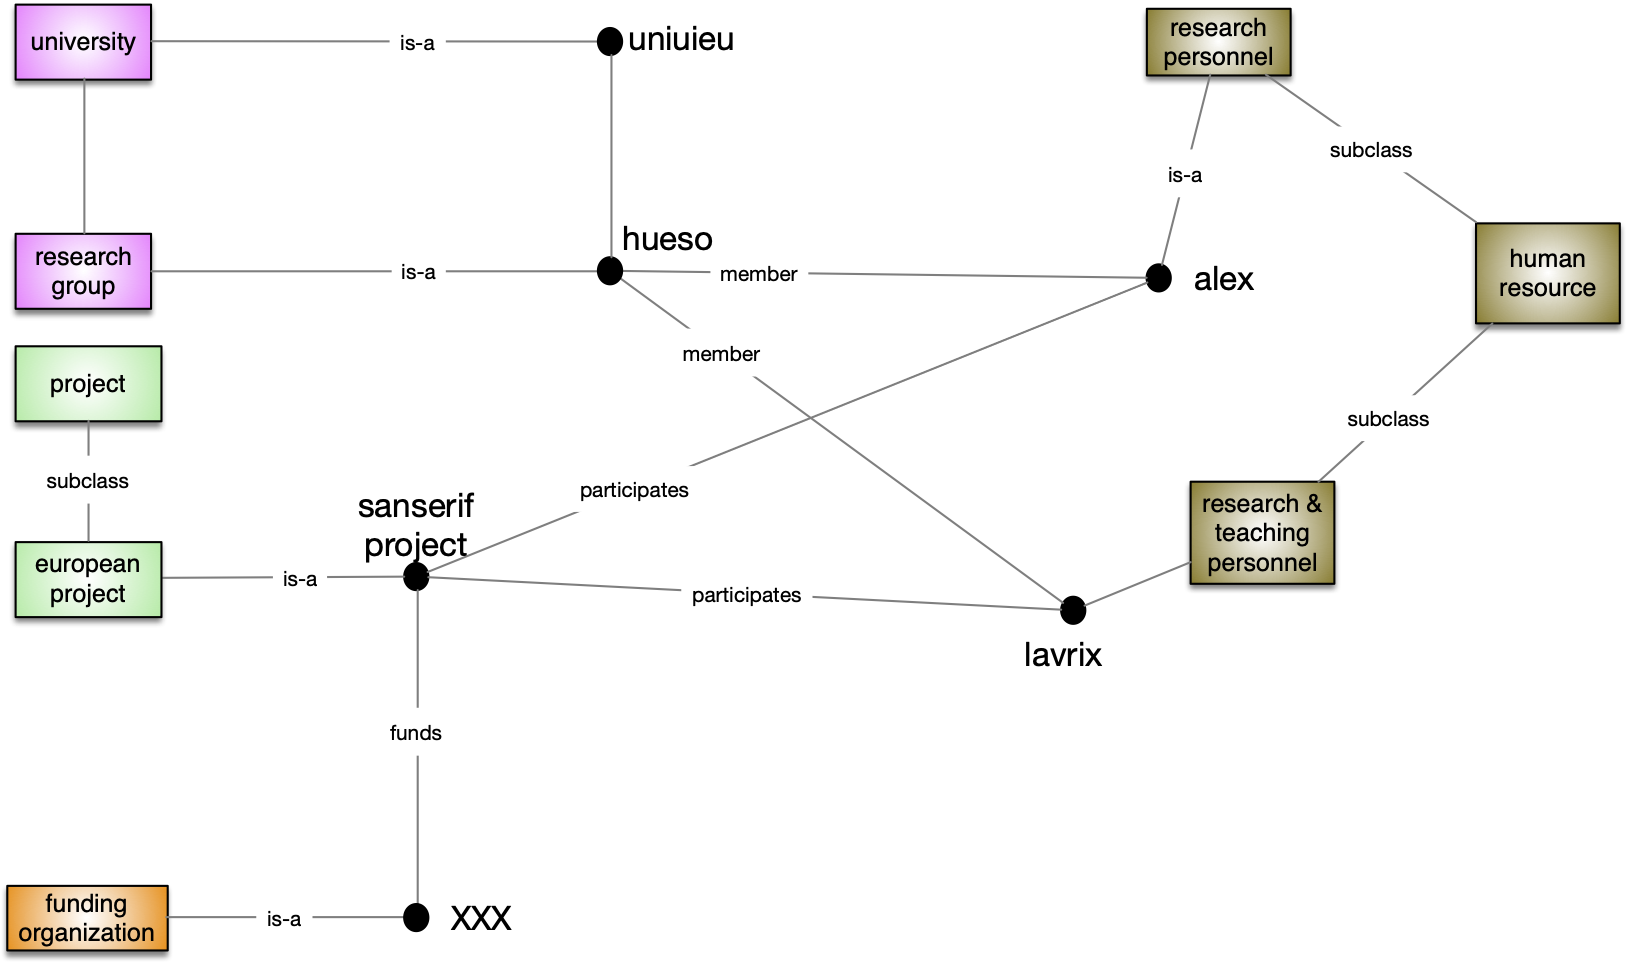
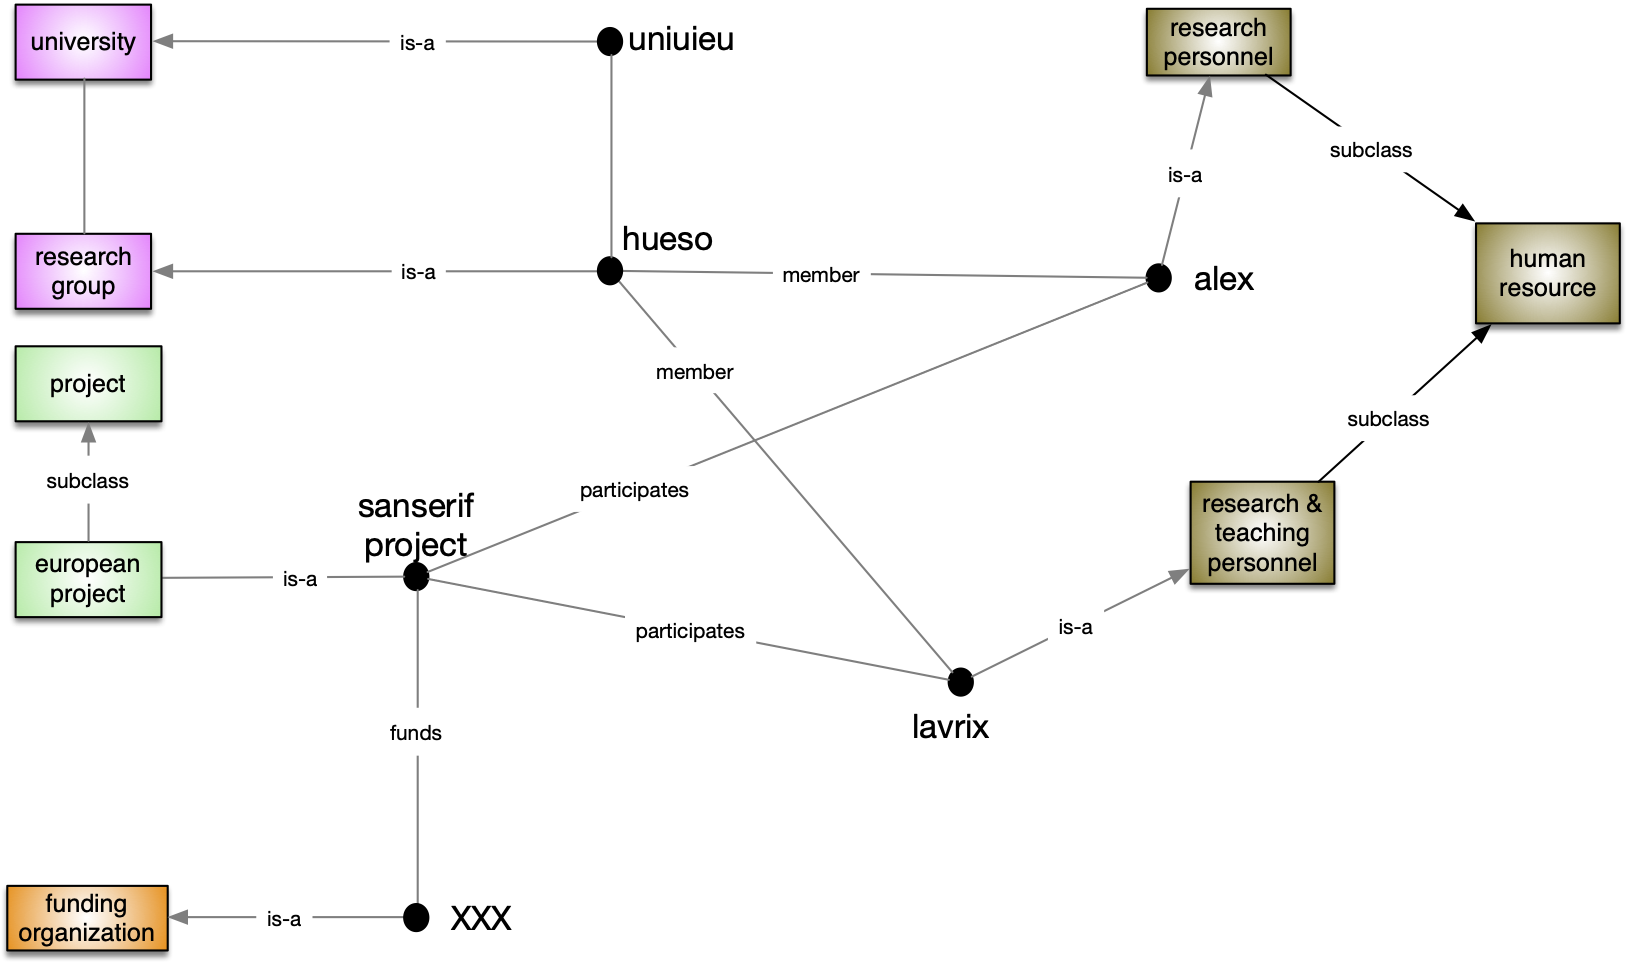
improved image; more properties and mappings

diff --git a/entregables_hito_1/01-Red_de_Ontologías_Hércules/ASIO_Izertis_RedDeOntologiasHercules.md b/entregables_hito_1/01-Red_de_Ontologías_Hércules/ASIO_Izertis_RedDeOntologiasHercules.md
@@ -42,7 +42,7 @@ This first version of the core ontology ([asio-demo.ttl](https://git.izertis.com
 
 ## 2.2. the core ontology at a glance
 
-To guide the reader in the understanding of this core ontology may be useful to take into account some of the competence questions relying under its modelling. Let's have a look at some of the most representative and/or easy-to-grasp:
+To guide the reader in the understanding of this core ontology it may be useful to take into account some of the competence questions relying under the ontology modelling. Let's have a look at some of the most representative and/or easy-to-grasp:
 
 
 
@@ -181,7 +181,7 @@ In addition to the ontological possibilities offered by SKOS, which is itself an
 
 ## 4.4. Spain's university staffing
 
-Finally, all the specificities of the teaching-and-research positions in the universities of Spain are dealt with in this vertical module, which is a working progress.
+Finally, all the specificities of the teaching-and-research positions in the universities of Spain are dealt with in this vertical module, which is still a working progress.
 
 
 
